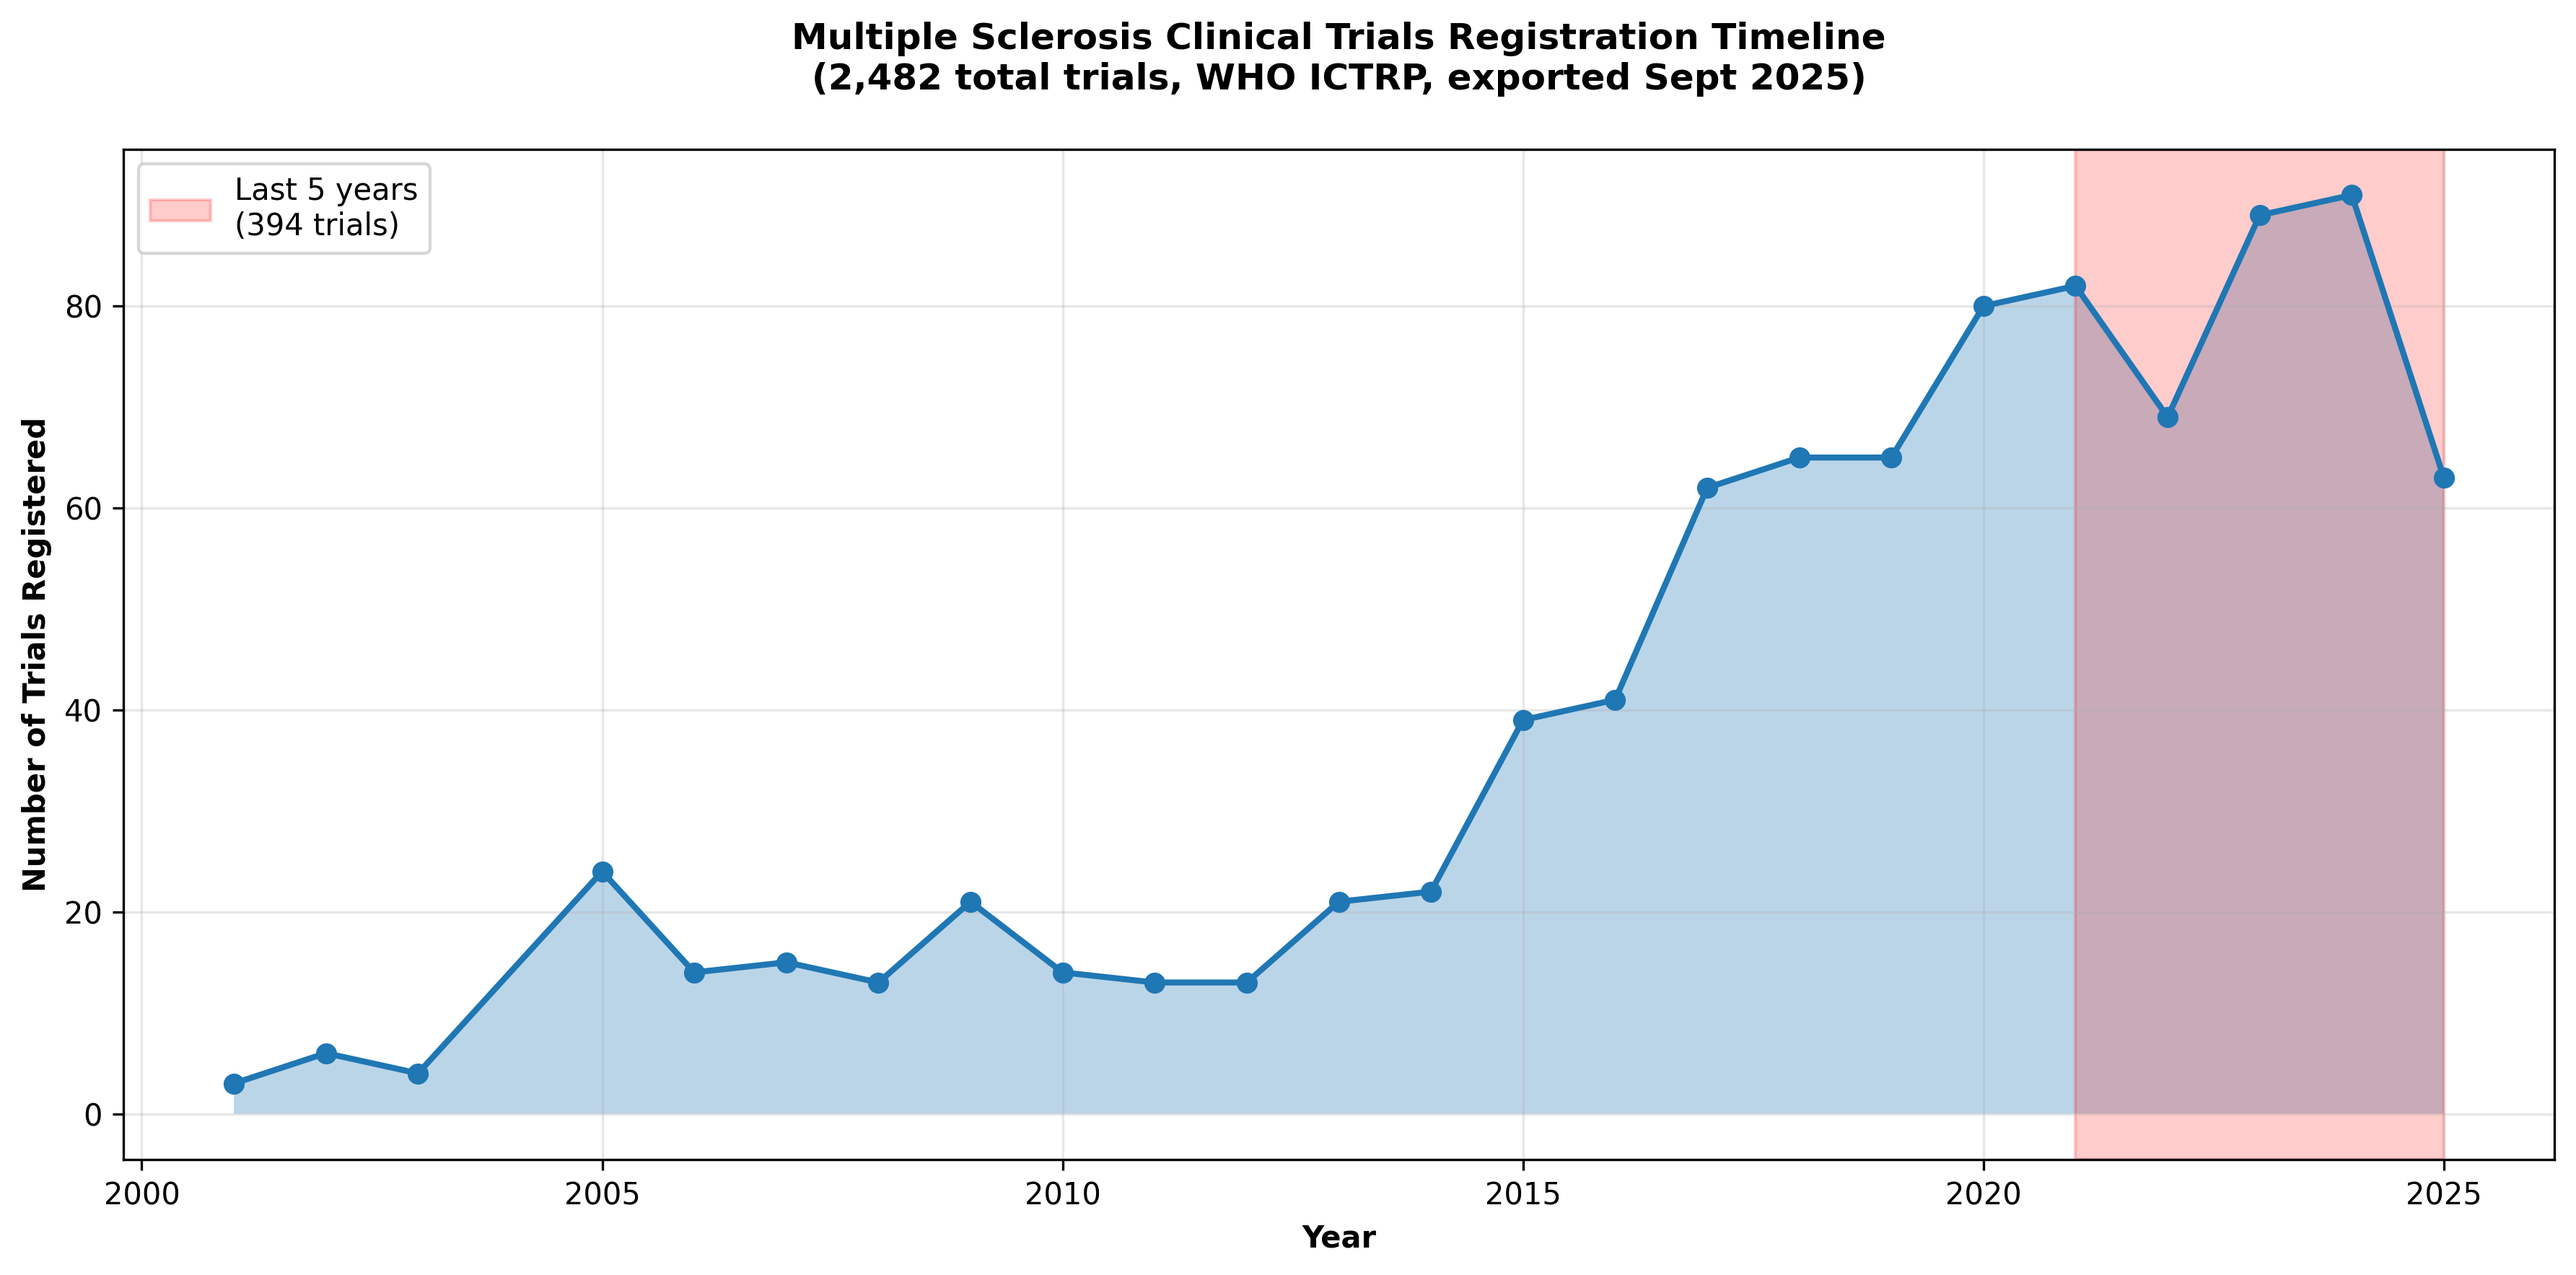
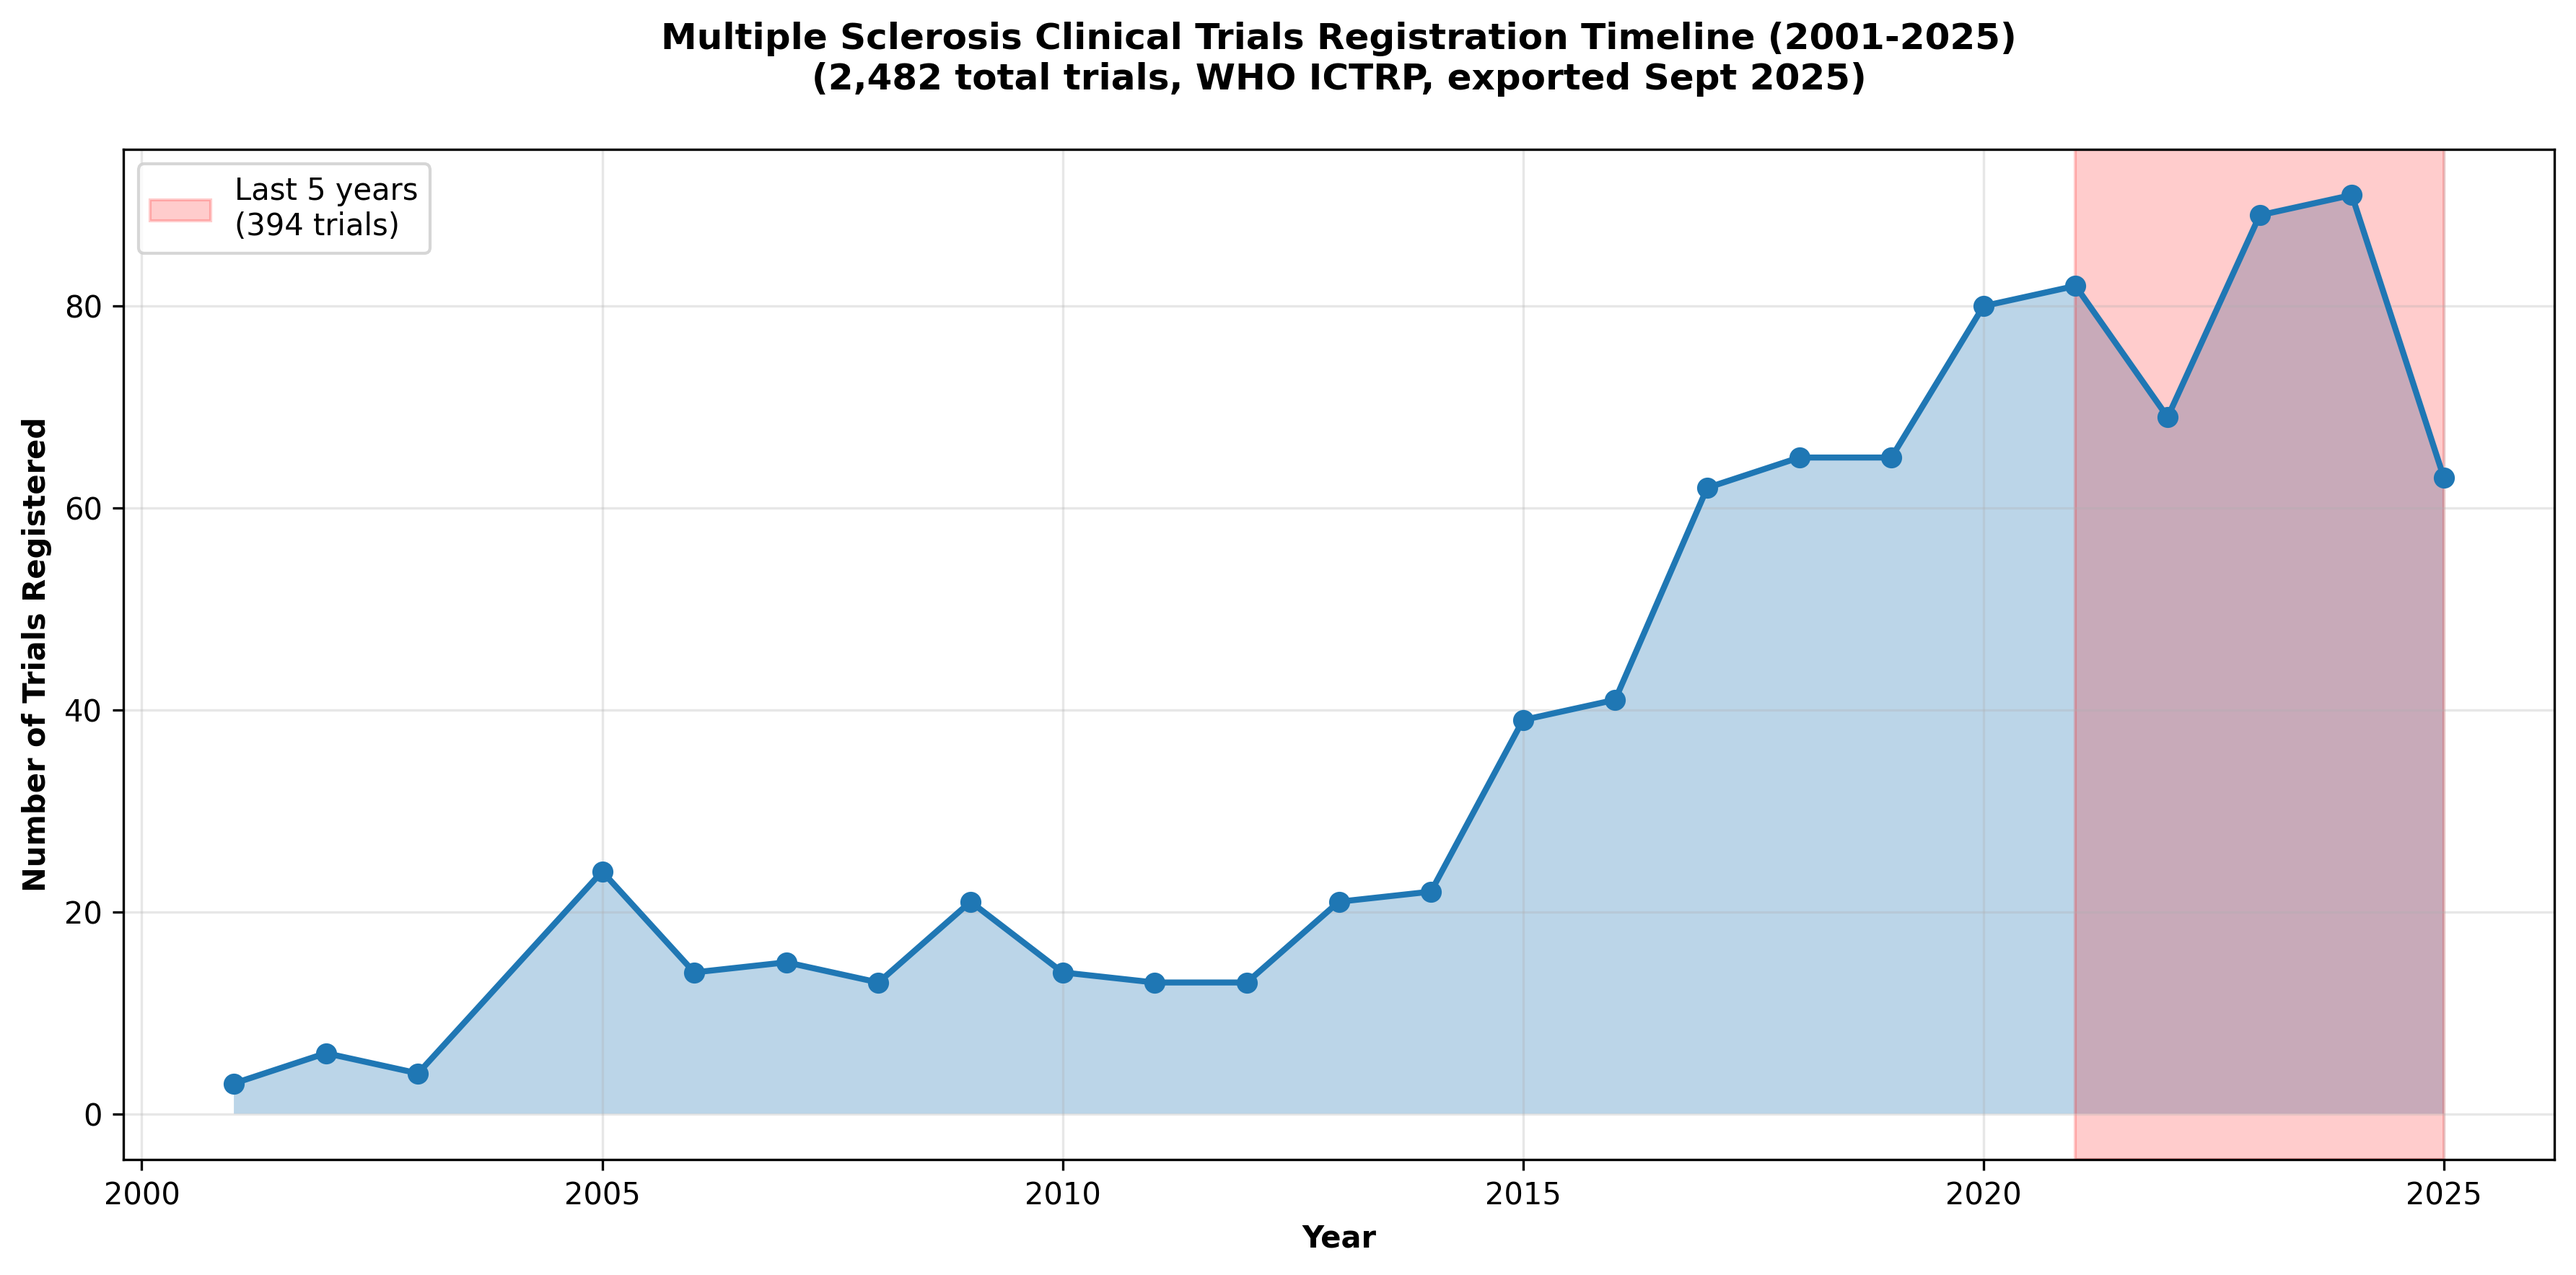
Add study timeframe and research activity trends; update chart titles; add date range analysis script

Changed region(s): [[0.2487, 0.0, 0.7773, 0.0623]]

diff --git a/analyze_dates.py b/analyze_dates.py
@@ -1,0 +1,80 @@
+#!/usr/bin/env python3
+"""
+Analyze the date range of clinical trials in our dataset
+"""
+
+import pandas as pd
+import numpy as np
+from datetime import datetime
+
+def analyze_trial_dates():
+    """Analyze the registration date range of trials in our dataset."""
+    print("Analyzing trial registration dates...")
+    
+    # Load the data
+    df = pd.read_excel("data/ICTRP-Results.xlsx")
+    
+    # Convert date columns to datetime
+    df_dates = df.copy()
+    df_dates['Date_registration'] = pd.to_datetime(df_dates['Date_registration'], errors='coerce')
+    df_dates['Date_registration3'] = pd.to_datetime(df_dates['Date_registration3'].astype(str), format='%Y%m%d', errors='coerce')
+    
+    # Use the primary date registration column
+    valid_dates = df_dates.dropna(subset=['Date_registration'])
+    
+    print(f"\nDate Analysis Results:")
+    print(f"=" * 50)
+    print(f"Total trials: {len(df):,}")
+    print(f"Trials with valid registration dates: {len(valid_dates):,}")
+    print(f"Trials with missing dates: {len(df) - len(valid_dates):,}")
+    
+    if len(valid_dates) > 0:
+        earliest_date = valid_dates['Date_registration'].min()
+        latest_date = valid_dates['Date_registration'].max()
+        
+        print(f"\nDate Range:")
+        print(f"Earliest trial registration: {earliest_date.strftime('%B %d, %Y')}")
+        print(f"Latest trial registration: {latest_date.strftime('%B %d, %Y')}")
+        print(f"Time span: {(latest_date - earliest_date).days:,} days ({(latest_date - earliest_date).days // 365} years)")
+        
+        # Show distribution by decade
+        valid_dates['Year'] = valid_dates['Date_registration'].dt.year
+        valid_dates['Decade'] = (valid_dates['Year'] // 10) * 10
+        
+        print(f"\nTrials by Decade:")
+        decade_counts = valid_dates['Decade'].value_counts().sort_index()
+        for decade, count in decade_counts.items():
+            decade_end = decade + 9
+            percentage = (count / len(valid_dates)) * 100
+            print(f"{decade}s ({decade}-{decade_end}): {count:4d} trials ({percentage:5.1f}%)")
+        
+        # Recent activity (last 5 years)
+        recent_cutoff = datetime.now() - pd.DateOffset(years=5)
+        recent_trials = valid_dates[valid_dates['Date_registration'] >= recent_cutoff]
+        
+        print(f"\nRecent Activity (since {recent_cutoff.strftime('%Y')}):")
+        print(f"Trials registered in last 5 years: {len(recent_trials):,} ({(len(recent_trials)/len(valid_dates)*100):.1f}%)")
+        
+        # Show some sample early and recent trials
+        print(f"\nSample Early Trials:")
+        early_trials = valid_dates.nsmallest(3, 'Date_registration')[['Date_registration', 'Public_title', 'Primary_sponsor']]
+        for idx, row in early_trials.iterrows():
+            print(f"  {row['Date_registration'].strftime('%Y-%m-%d')}: {row['Public_title'][:60]}... (Sponsor: {row['Primary_sponsor'][:40]}...)")
+        
+        print(f"\nSample Recent Trials:")
+        recent_trials_sample = valid_dates.nlargest(3, 'Date_registration')[['Date_registration', 'Public_title', 'Primary_sponsor']]
+        for idx, row in recent_trials_sample.iterrows():
+            print(f"  {row['Date_registration'].strftime('%Y-%m-%d')}: {row['Public_title'][:60]}... (Sponsor: {row['Primary_sponsor'][:40]}...)")
+        
+        return {
+            'earliest_date': earliest_date,
+            'latest_date': latest_date,
+            'total_with_dates': len(valid_dates),
+            'decade_counts': decade_counts
+        }
+    else:
+        print("No valid dates found in the dataset")
+        return None
+
+if __name__ == "__main__":
+    results = analyze_trial_dates()

diff --git a/analyze_trials.py b/analyze_trials.py
@@ -160,7 +160,7 @@ def create_sponsor_visualization(top_sponsors, save_path="charts/top_sponsors_ch
     ax.invert_yaxis()  # Top sponsor at the top
     ax.set_xlabel('Number of Clinical Trials', fontsize=12, fontweight='bold')
     ax.set_ylabel('Primary Sponsor', fontsize=12, fontweight='bold')
-    ax.set_title('Top 10 Sponsors of Multiple Sclerosis Clinical Trials\n(WHO ICTRP Database - 2,482 total trials, exported Sept 2025)', 
+    ax.set_title('Top 10 Sponsors of Multiple Sclerosis Clinical Trials (2001-2025)\n(WHO ICTRP Database - 2,482 total trials, exported Sept 2025)', 
                  fontsize=14, fontweight='bold', pad=20)
     
     # Add value labels on bars

diff --git a/funding_insights.py b/funding_insights.py
@@ -204,7 +204,7 @@ def create_recruitment_timeline_chart(df, save_path="charts/recruitment_timeline
     
     ax.set_xlabel('Year', fontweight='bold')
     ax.set_ylabel('Number of Trials Registered', fontweight='bold')
-    ax.set_title('Multiple Sclerosis Clinical Trials Registration Timeline\n(2,482 total trials, WHO ICTRP, exported Sept 2025)', fontweight='bold', pad=20)
+    ax.set_title('Multiple Sclerosis Clinical Trials Registration Timeline (2001-2025)\n(2,482 total trials, WHO ICTRP, exported Sept 2025)', fontweight='bold', pad=20)
     ax.grid(True, alpha=0.3)
     
     # Highlight recent years

diff --git a/ANALYSIS_REPORT.md b/ANALYSIS_REPORT.md
@@ -4,6 +4,8 @@
 
 This analysis examines 2,482 Multiple Sclerosis clinical trials registered in the WHO International Clinical Trials Registry Platform (ICTRP) to identify the top sponsors and explore funding patterns in MS research.
 
+**Study Timeframe**: The analysis covers clinical trials registered from **February 4, 2001 to December 5, 2025** - spanning 24 years of MS research activity. Of the total trials, 929 have complete registration date information, with 51% of dated trials registered in the 2020s decade, demonstrating accelerating research activity in recent years.
+
 ## Key Findings
 
 ### Top 10 Sponsors of MS Clinical Trials
@@ -44,6 +46,20 @@ Our analysis benefits from excellent data quality:
 - **Global participation**: Top 10 countries represent 70.5% of trials
 - **Asian presence**: Japan (201 trials) and China (156 trials) are significant contributors
 
+### Temporal Distribution of Research Activity
+
+**Research Activity by Decade:**
+- **2000s (2000-2009)**: 100 trials (10.8% of dated trials)
+- **2010s (2010-2019)**: 355 trials (38.2% of dated trials)  
+- **2020s (2020-2025)**: 474 trials (51.0% of dated trials)
+
+This distribution reveals a dramatic acceleration in MS clinical trial activity, with more trials registered in the current decade (2020s) than in the previous two decades combined. This trend reflects increasing investment in MS research, improved understanding of the disease, and growing therapeutic opportunities.
+
+**Notable Milestones:**
+- **Earliest trial**: February 4, 2001 - "Effectiveness of A Nutritional Brain Metabolic Enhancer" (National Institute on Aging)
+- **Most recent trial**: December 5, 2025 - "Biomarkers of the Locus Coeruleus Nucleus" (University Hospital, Toulouse)
+- **Research span**: 24 years of continuous MS clinical research activity
+
 ### Funding Patterns
 
 #### By Sponsor Type
@@ -66,8 +82,11 @@ Our analysis benefits from excellent data quality:
 
 ![Recruitment Timeline Chart](charts/recruitment_timeline.png)
 
-- **474 trials registered since 2020**, showing continued investment in MS research
-- **75.7% are interventional trials**, indicating therapeutic development focus
+**24 Years of MS Research Evolution (2001-2025)**
+- **474 trials registered since 2020**, representing 51% of all dated trials
+- **Growing momentum**: The 2020s decade shows the highest research activity
+- **75.7% are interventional trials**, indicating strong therapeutic development focus
+- **Recent acceleration**: 44.9% of dated trials registered in just the last 5 years
 
 ## Notable Patterns
 
@@ -110,6 +129,8 @@ Our analysis benefits from excellent data quality:
 - Search criteria: "Multiple Sclerosis", all statuses and recruitment phases
 - Export date: September 23, 2025
 - Total records: 2,482 trials
+- **Date coverage**: February 4, 2001 to December 5, 2025 (24 years)
+- **Complete date information**: 929 trials (37.4% of total dataset)
 
 ### Analysis Approach
 - Primary focus on "Primary_sponsor" field
@@ -122,6 +143,8 @@ Our analysis benefits from excellent data quality:
 - Secondary sponsors not fully captured in primary analysis
 - Some trials may be registered in multiple registries
 - Historical data may have different registration standards
+- **Date completeness**: Only 37.4% of trials have complete registration date information
+- **Temporal bias**: Analysis may underrepresent very early MS research (pre-2001 registry era)
 
 ## Files Generated
 
